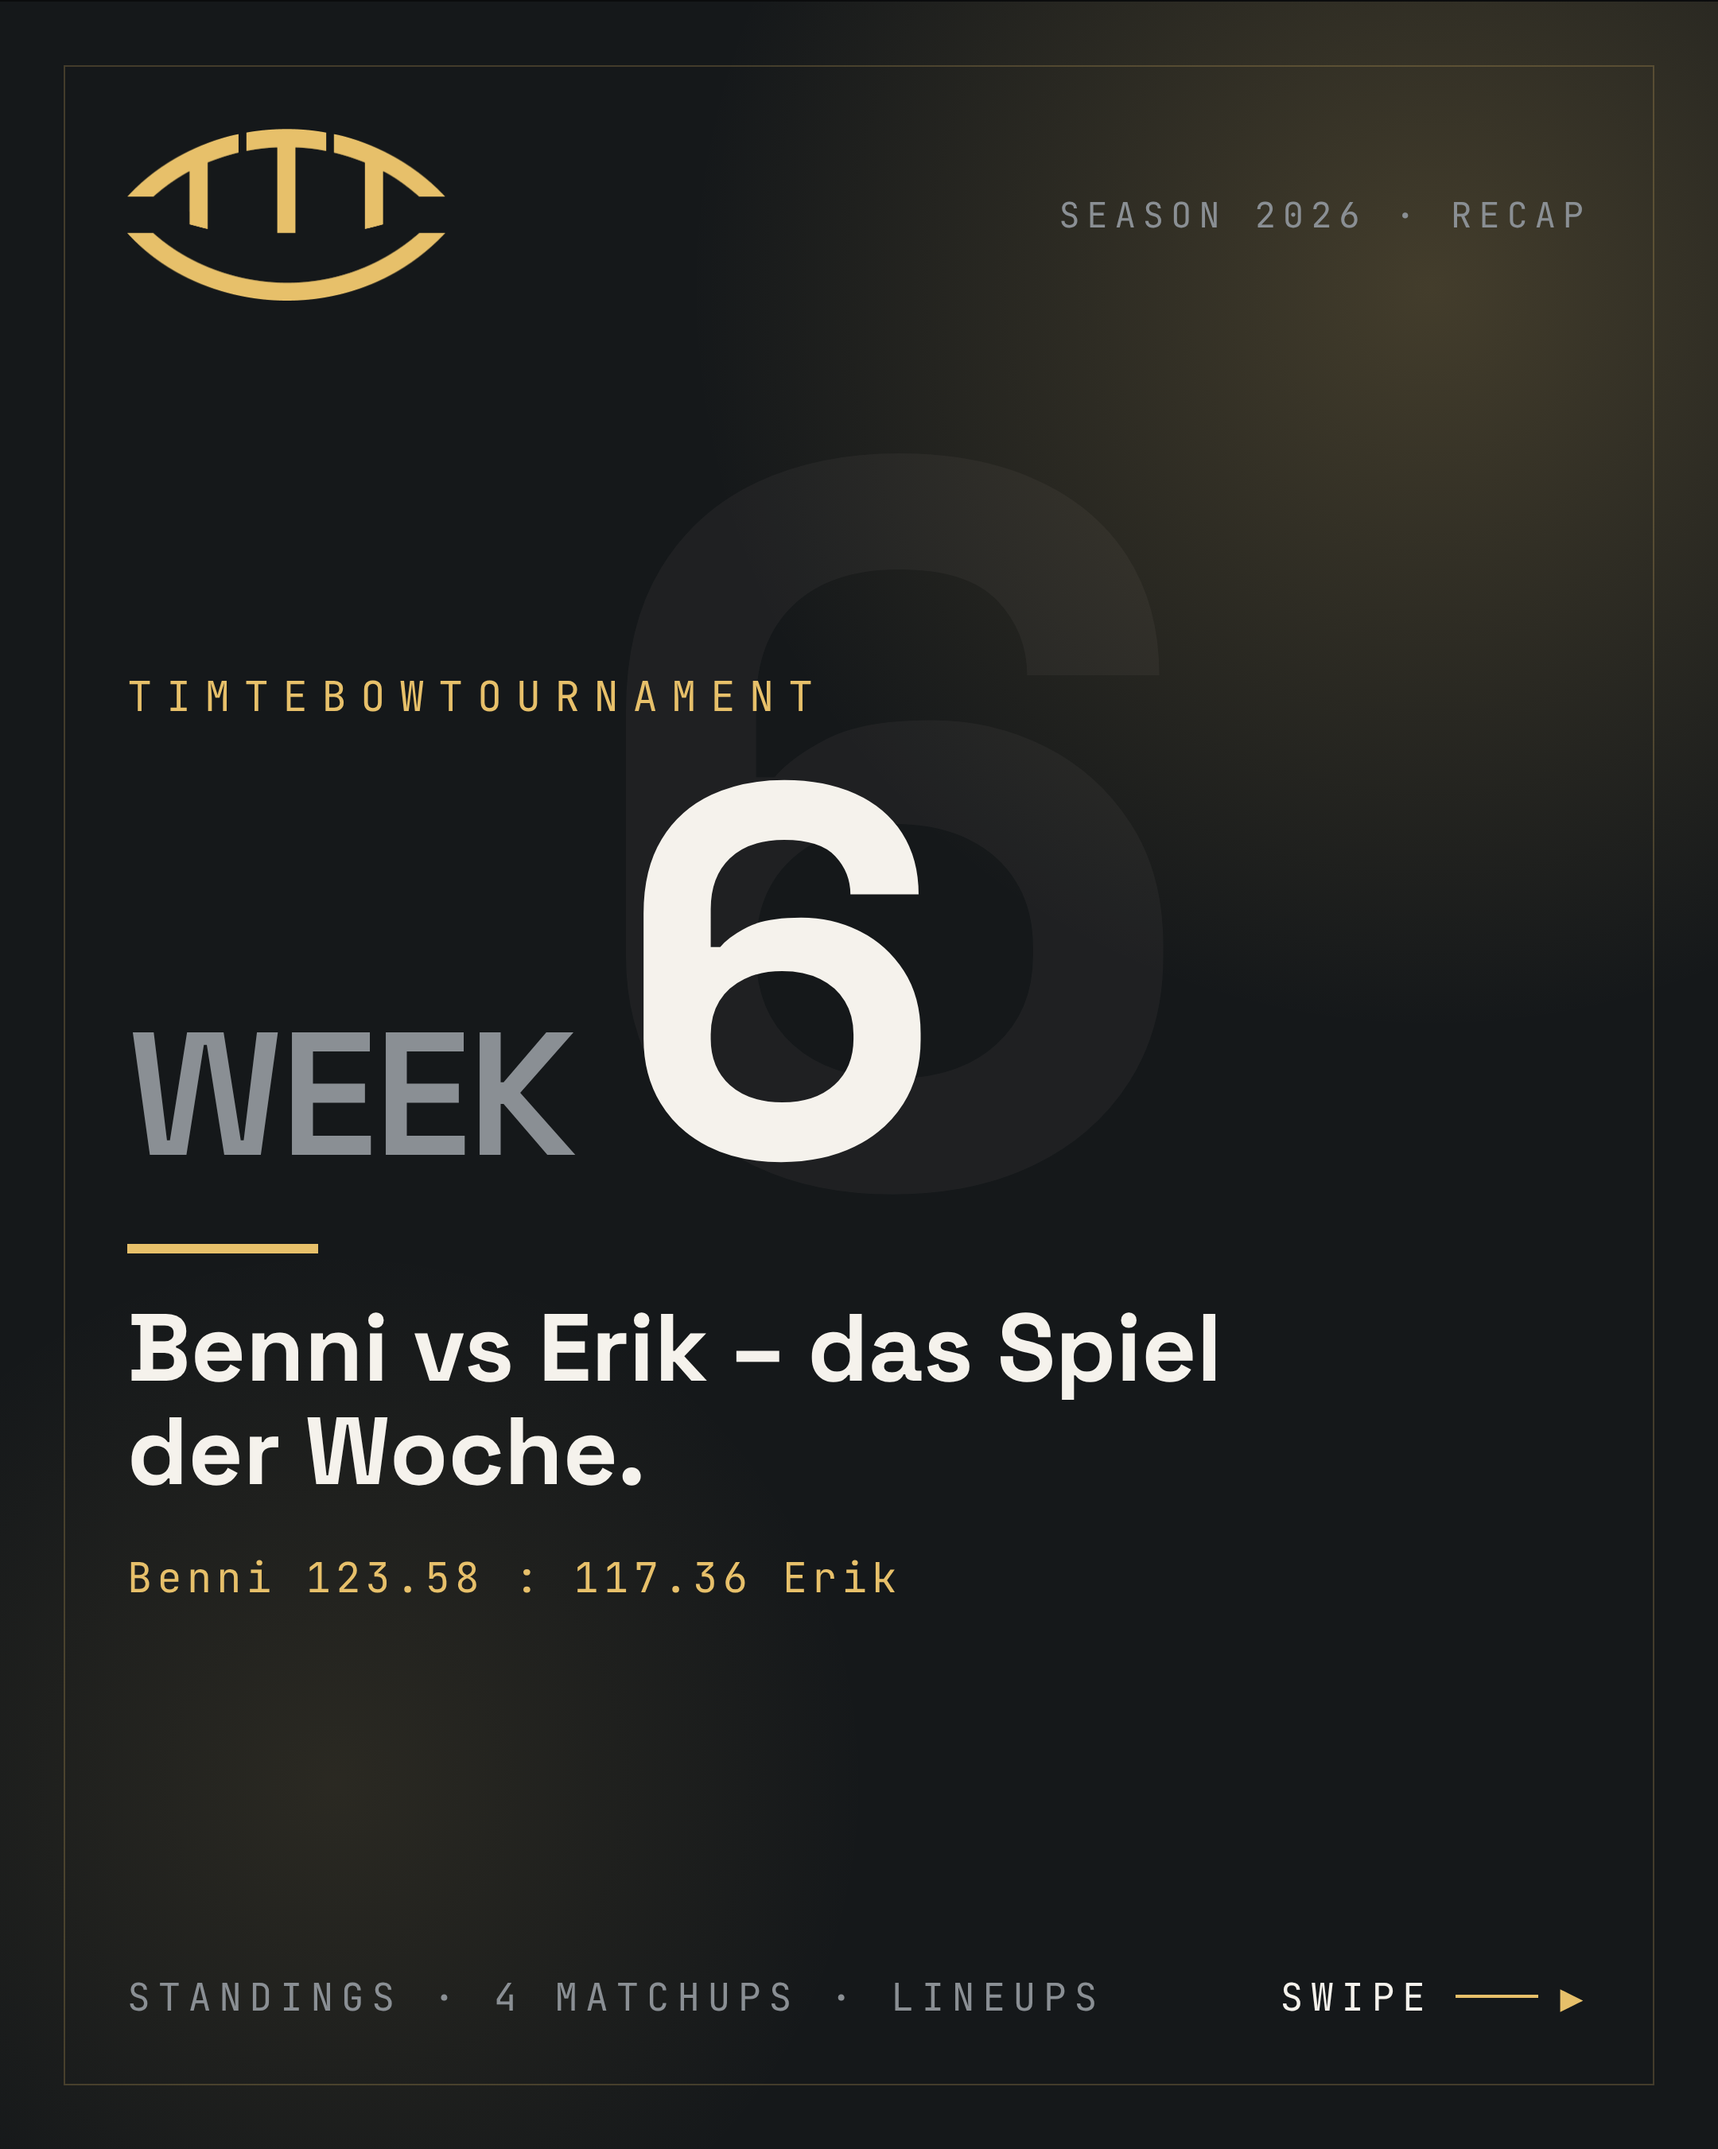
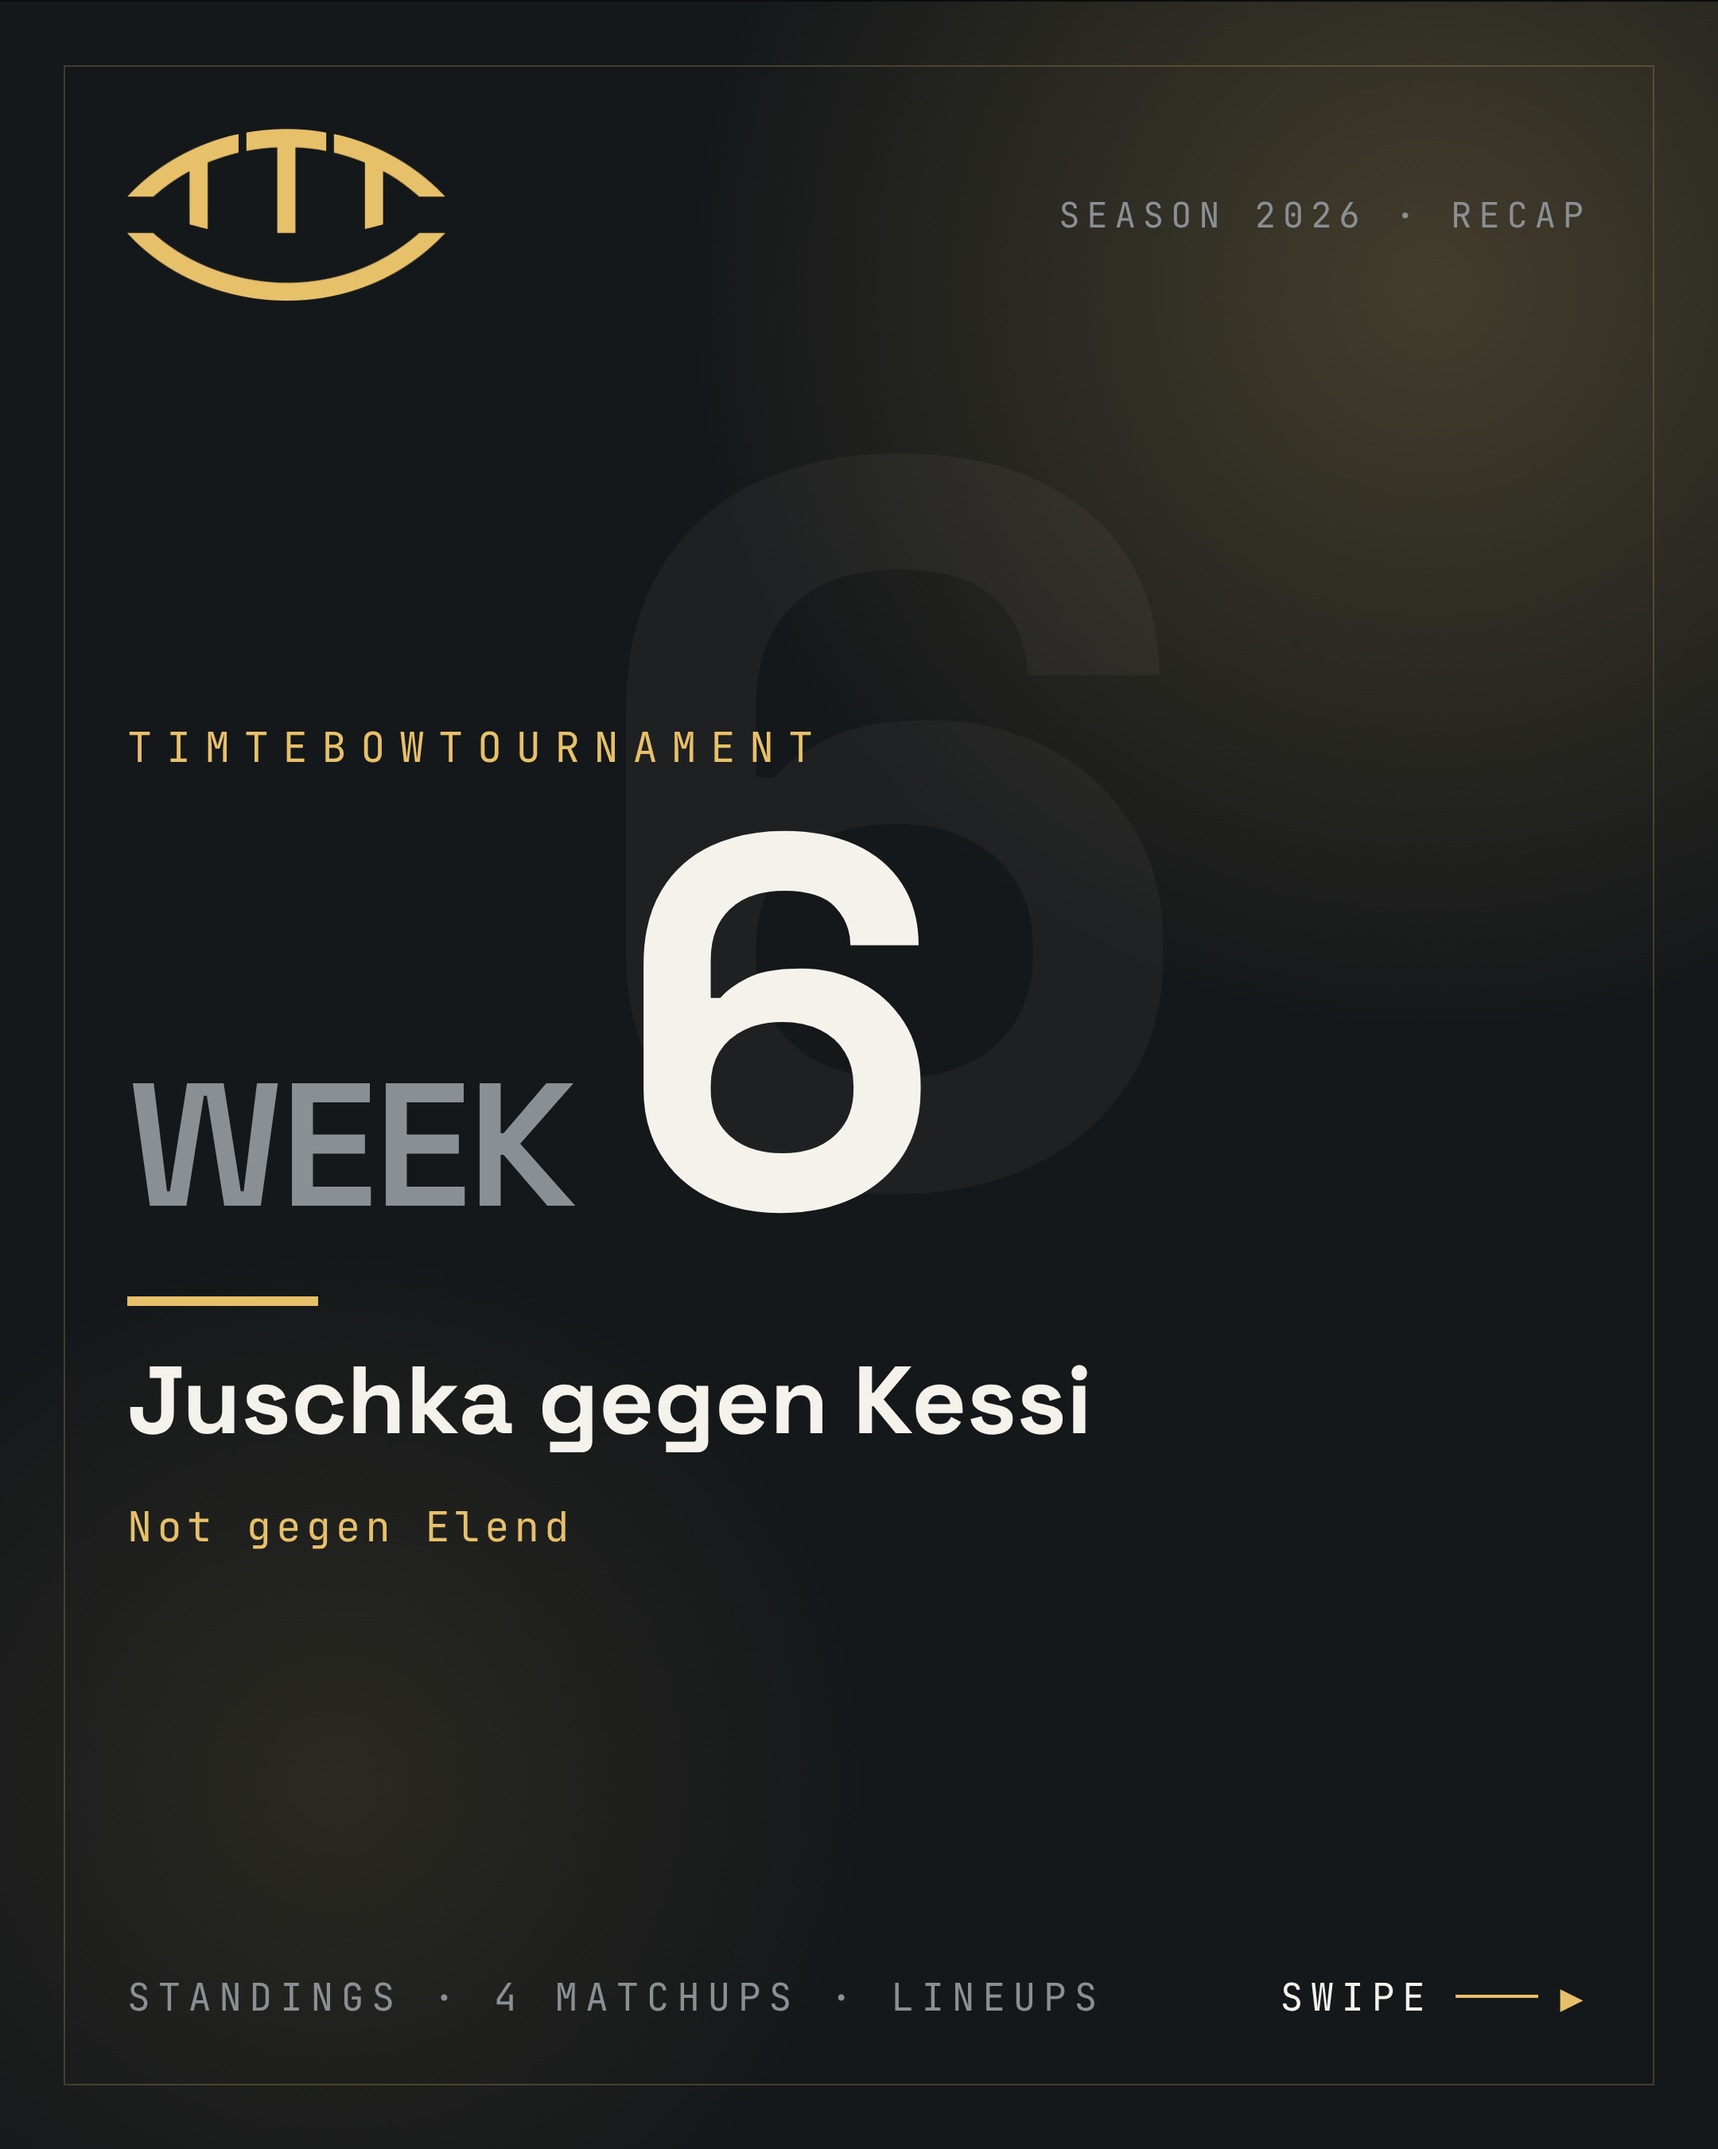
instagram: fix cover takes priority over auto-hook; re-render week06
- Template: rp.cover / rp.coverSub now take precedence over autoHook
  (previously autoHook always overrode the takes override)
- week06 export: re-rendered with cover "Juschka gegen Kessi" / "Not gegen Elend"

Claude-Session: https://claude.ai/code/session_01NNCLwodsTqahGEGmpfvw8S

diff --git a/instagram/post/TTT Weekly Post.dc.html b/instagram/post/TTT Weekly Post.dc.html
@@ -775,8 +775,8 @@ class Component extends DCLogic {
     }, { v: 0, name: "" });
     const autoHook = (closest ? (closest.d < 5 ? "Entschieden mit " + closest.d.toFixed(2) + " Punkten." : closest.m.aOwner + " vs " + closest.m.bOwner + " – das Spiel der Woche.") : "");
     // Auto-Hook hat Vorrang; Takes "## Cover" nur, wenn dort bewusst Text steht UND autoHook leer ist -> siehe README
-    const coverHook = autoHook || rp.cover || COVER_HEADLINE;
-    const coverHookSub = closest ? closest.m.aOwner + " " + closest.m.aProj + " : " + closest.m.bProj + " " + closest.m.bOwner : (rp.coverSub || "");
+    const coverHook = rp.cover || autoHook || COVER_HEADLINE;
+    const coverHookSub = rp.coverSub || (closest ? closest.m.aOwner + " " + closest.m.aProj + " : " + closest.m.bProj + " " + closest.m.bOwner : "");
 
     return {
       seasonLabel: SEASON,
